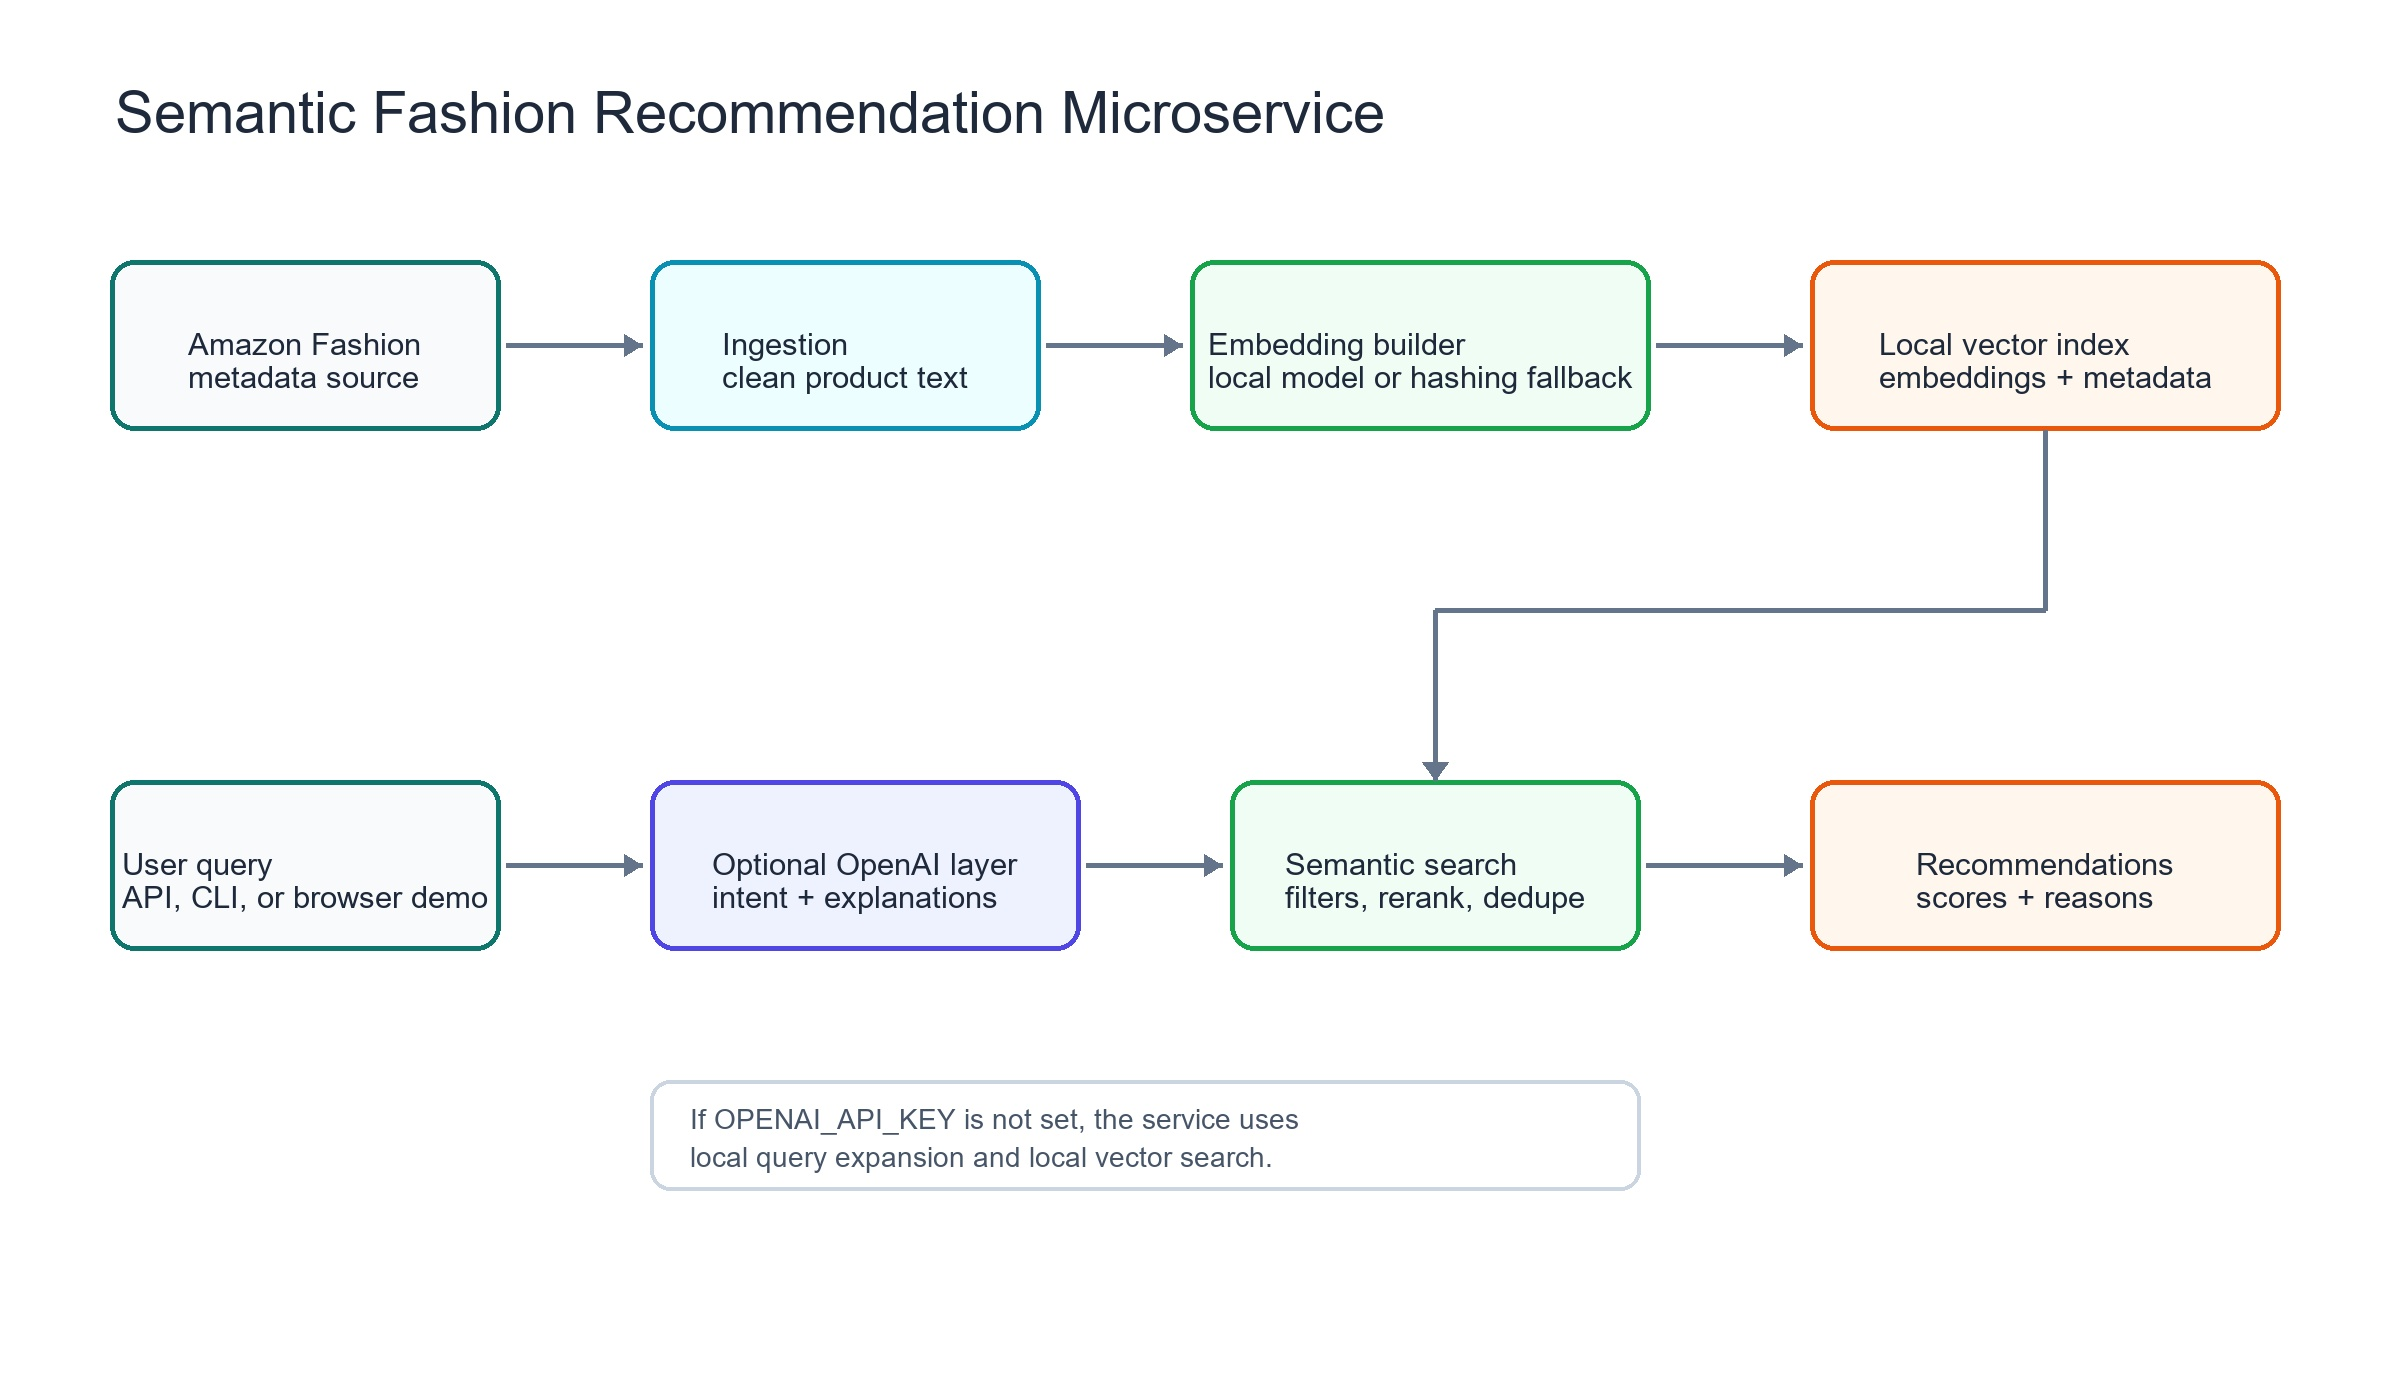
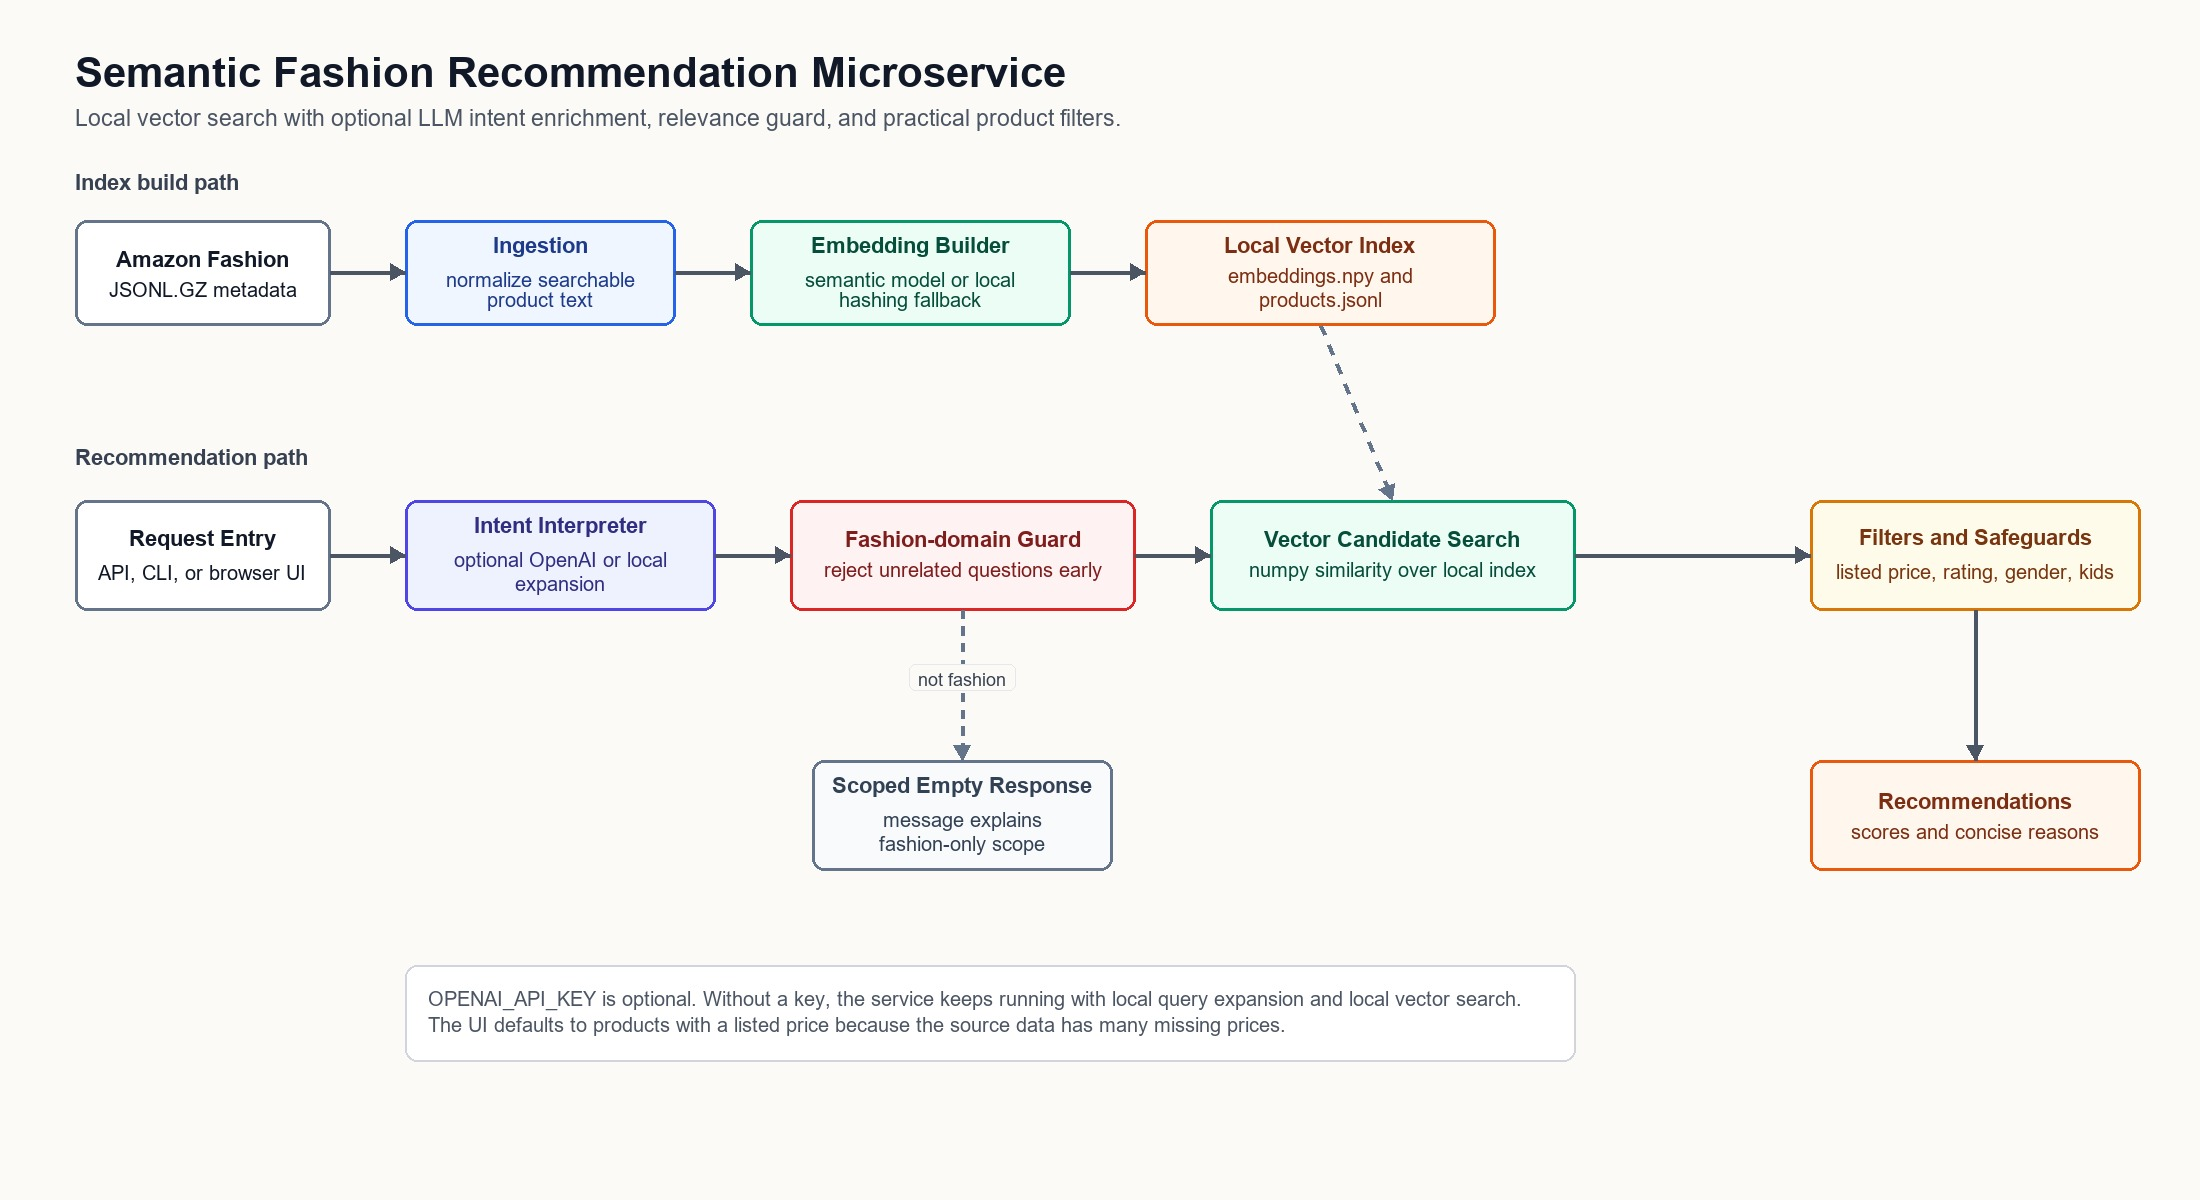
Improve search relevance

diff --git a/app/static/index.html b/app/static/index.html
@@ -587,7 +587,7 @@
       backendLabel.textContent = data.llm_used ? data.llm_provider : data.embedding_backend;
 
       if (count === 0) {
-        results.innerHTML = `<div class="empty-state">No matching products found.</div>`;
+        results.innerHTML = `<div class="empty-state">${escapeHtml(data.message || "No matching products found.")}</div>`;
         return;
       }
 

diff --git a/app/text_utils.py b/app/text_utils.py
@@ -126,6 +126,122 @@ FASHION_EXPANSIONS: dict[str, tuple[str, ...]] = {
     ),
 }
 
+FASHION_REQUEST_TERMS = {
+    "accessory",
+    "activewear",
+    "athletic",
+    "beach",
+    "beanie",
+    "belt",
+    "bikini",
+    "blazer",
+    "boots",
+    "bra",
+    "business",
+    "cap",
+    "cardigan",
+    "casual",
+    "clothes",
+    "clothing",
+    "coat",
+    "cotton",
+    "dress",
+    "fleece",
+    "flip",
+    "formal",
+    "gloves",
+    "gown",
+    "gym",
+    "hat",
+    "hoodie",
+    "interview",
+    "jacket",
+    "jeans",
+    "jogger",
+    "leggings",
+    "linen",
+    "men",
+    "mens",
+    "men's",
+    "office",
+    "outfit",
+    "pants",
+    "party",
+    "rain",
+    "running",
+    "sandal",
+    "sandals",
+    "scarf",
+    "shirt",
+    "shoes",
+    "shorts",
+    "ski",
+    "sneakers",
+    "socks",
+    "sports",
+    "summer",
+    "sweater",
+    "sweatpants",
+    "sweatshirt",
+    "swimwear",
+    "tank",
+    "tee",
+    "thermal",
+    "top",
+    "travel",
+    "trousers",
+    "wear",
+    "wedding",
+    "winter",
+    "women",
+    "womens",
+    "women's",
+    "workout",
+    "yoga",
+}
+
+FASHION_PRODUCT_TERMS = FASHION_REQUEST_TERMS - {
+    "beach",
+    "business",
+    "casual",
+    "interview",
+    "men",
+    "mens",
+    "men's",
+    "office",
+    "party",
+    "rain",
+    "running",
+    "ski",
+    "sports",
+    "summer",
+    "travel",
+    "wedding",
+    "winter",
+    "women",
+    "womens",
+    "women's",
+    "workout",
+    "yoga",
+}
+
+FASHION_CONTEXT_TERMS = FASHION_REQUEST_TERMS - FASHION_PRODUCT_TERMS
+
+SHOPPING_INTENT_TERMS = {
+    "buy",
+    "find",
+    "for",
+    "looking",
+    "need",
+    "recommend",
+    "search",
+    "shop",
+    "show",
+    "suggest",
+    "want",
+    "wear",
+}
+
 
 def tokenize(text: str) -> list[str]:
     return TOKEN_RE.findall(text.lower())
@@ -170,6 +286,28 @@ def infer_avoid_terms(query: str) -> list[str]:
     if {"running", "gym", "workout"} & tokens or "running" in lower or "gym" in lower:
         avoid.extend(["formal", "wedding", "gown", "dress shirt"])
     return list(dict.fromkeys(avoid))
+
+
+def is_fashion_request(query: str) -> bool:
+    tokens = set(tokenize(query))
+    if not tokens:
+        return False
+    if tokens & FASHION_PRODUCT_TERMS:
+        return True
+    has_shopping_intent = bool(tokens & SHOPPING_INTENT_TERMS)
+    has_fashion_context = bool(tokens & FASHION_CONTEXT_TERMS)
+    has_descriptive_context = any(
+        term in query.lower()
+        for term in (
+            "what should i wear",
+            "what to wear",
+            "dress code",
+            "outdoor",
+            "warm weather",
+            "cold weather",
+        )
+    )
+    return has_shopping_intent and (has_fashion_context or has_descriptive_context)
 
 
 def shared_query_terms(query: str, product_text: str, max_terms: int = 5) -> list[str]:

diff --git a/tests/test_search.py b/tests/test_search.py
@@ -197,3 +197,57 @@ def test_adult_query_excludes_kids_products(tmp_path) -> None:
     )
 
     assert [item["parent_asin"] for item in result["recommendations"]] == ["MEN1"]
+
+
+def test_non_fashion_query_returns_no_recommendations(tmp_path) -> None:
+    products = [
+        ProductRecord(
+            parent_asin="GIFT1",
+            title="Brother birthday gift tumbler",
+            store="Gift Shop",
+            price=24.99,
+            average_rating=4.6,
+            rating_number=88,
+            main_category="AMAZON FASHION",
+            search_text="Brother birthday gifts cup tumbler best brother gift",
+        )
+    ]
+    build_index(products, HashingEmbedder(), tmp_path, source_path=tmp_path / "sample.jsonl.gz")
+    index = ProductIndex.load(tmp_path)
+
+    result = index.recommend(
+        "what is Indias national anthem",
+        top_k=5,
+        filters=ProductFilters(require_price=True),
+        interpreter=LocalQueryInterpreter(),
+    )
+
+    assert result["recommendations"] == []
+    assert result["message"] is not None
+
+
+def test_audience_word_alone_is_not_fashion_request(tmp_path) -> None:
+    products = [
+        ProductRecord(
+            parent_asin="WOMEN1",
+            title="Women's padded sports bra",
+            store="Active Shop",
+            price=23.99,
+            average_rating=4.3,
+            rating_number=18,
+            main_category="AMAZON FASHION",
+            search_text="women sports bra workout activewear",
+        )
+    ]
+    build_index(products, HashingEmbedder(), tmp_path, source_path=tmp_path / "sample.jsonl.gz")
+    index = ProductIndex.load(tmp_path)
+
+    result = index.recommend(
+        "what is international women day",
+        top_k=5,
+        filters=ProductFilters(require_price=True),
+        interpreter=LocalQueryInterpreter(),
+    )
+
+    assert result["recommendations"] == []
+    assert result["message"] is not None

diff --git a/app/search.py b/app/search.py
@@ -12,7 +12,7 @@ from app.embedding import Embedder, create_embedder
 from app.ingest import ProductRecord
 from app.llm import LocalQueryInterpreter
 from app.models import ProductFilters
-from app.text_utils import shared_query_terms, tokenize
+from app.text_utils import is_fashion_request, shared_query_terms, tokenize
 
 
 class ProductIndex:
@@ -57,6 +57,20 @@ class ProductIndex:
     ) -> dict[str, Any]:
         started = time.perf_counter()
         intent = interpreter.interpret(query)
+        if not is_fashion_request(query):
+            return {
+                "query": query,
+                "interpreted_query": intent.search_query,
+                "llm_used": intent.llm_used,
+                "llm_provider": intent.provider,
+                "embedding_backend": self.embedder.backend,
+                "recommendations": [],
+                "latency_ms": int((time.perf_counter() - started) * 1000),
+                "message": (
+                    "This service is scoped to fashion product recommendations. "
+                    "Try a clothing item, accessory, season, occasion, or audience request."
+                ),
+            }
         requested_gender = _requested_gender(query)
         query_vector = self.embedder.encode([intent.search_query], is_query=True)[0]
         similarities = self.embeddings @ query_vector
@@ -122,6 +136,7 @@ class ProductIndex:
             "embedding_backend": self.embedder.backend,
             "recommendations": selected,
             "latency_ms": elapsed,
+            "message": None,
         }
 
 

diff --git a/app/models.py b/app/models.py
@@ -34,3 +34,4 @@ class RecommendResponse(BaseModel):
     embedding_backend: str
     recommendations: list[Recommendation]
     latency_ms: int
+    message: str | None = None

diff --git a/README.md b/README.md
@@ -17,6 +17,8 @@ It returns product recommendations from the included local vector index with sco
 - Dataset ingestion and vector index builder.
 - Optional OpenAI query interpretation when `OPENAI_API_KEY` is configured.
 - Local fallback path that works without any API key.
+- Fashion-domain guard so unrelated questions return a clear scoped message instead of arbitrary nearest neighbors.
+- Price, rating, listed-price, and audience-aware filtering for cleaner recommendations.
 - Architecture diagram in draw.io and JPEG formats.
 - Prebuilt 16,000-product index under `data/index` so the app can run immediately after dependency installation.
 - Tests for ingestion, search, and API behavior.
@@ -83,7 +85,7 @@ Open the local UI:
 http://127.0.0.1:8000
 ```
 
-The UI is served by the same FastAPI app. It lets a reviewer enter a natural-language shopping request, choose result count, optionally add price/rating filters, and see recommendations from the local index.
+The UI is served by the same FastAPI app. It lets a reviewer enter a natural-language shopping request, choose result count, optionally add price/rating filters, require products with a listed price, and see recommendations from the local index. Non-fashion queries return an empty state with a scope message instead of unrelated products.
 
 ## API Usage
 
@@ -92,7 +94,7 @@ Invoke-RestMethod `
   -Uri http://127.0.0.1:8000/recommend `
   -Method Post `
   -ContentType "application/json" `
-  -Body '{"query":"I need an outfit to go to the beach this summer","top_k":5,"filters":{"max_price":50,"min_rating":4.0}}'
+  -Body '{"query":"I need an outfit to go to the beach this summer","top_k":5,"filters":{"max_price":50,"min_rating":4.0,"require_price":true}}'
 ```
 
 Response shape:
@@ -116,11 +118,27 @@ Response shape:
       "why": "Matches the shopping intent through: beach, summer, lightweight, breathable."
     }
   ],
-  "latency_ms": 35
+  "latency_ms": 35,
+  "message": null
 }
 ```
 
 Actual product results depend on the index size and embedding backend used.
+
+For an out-of-domain request, the API returns no products and explains the scope:
+
+```json
+{
+  "query": "what is Indias national anthem",
+  "interpreted_query": "what is Indias national anthem",
+  "llm_used": false,
+  "llm_provider": "local",
+  "embedding_backend": "hashing",
+  "recommendations": [],
+  "latency_ms": 0,
+  "message": "This service is scoped to fashion product recommendations. Try a clothing item, accessory, season, occasion, or audience request."
+}
+```
 
 ## CLI Usage
 
@@ -134,7 +152,8 @@ The high-level flow is:
 
 ```text
 Dataset -> ingestion -> embeddings -> vector index
-User query -> optional OpenAI interpretation -> vector search -> rerank/filter -> recommendations
+User query -> optional OpenAI/local interpretation -> fashion-domain guard -> vector search -> price/audience filters -> rerank/dedupe -> recommendations
+Out-of-domain query -> scoped empty response
 ```
 
 Diagram files:
@@ -147,12 +166,14 @@ Diagram files:
 - The app is intentionally small: FastAPI, local files, and numpy vector search are enough for a reviewable prototype.
 - The OpenAI layer is optional because reviewers should be able to run the submission without a secret key.
 - The local fallback includes query expansion for common fashion intents like beach, summer, running, office, wedding, winter, and travel.
+- The recommender rejects non-fashion requests before vector search because nearest-neighbor search will otherwise always return something, even for unrelated questions.
+- Audience filtering keeps mens, womens, unisex, and kids-oriented matches aligned with the request instead of relying on similarity alone.
 - `categories` are not used as a primary signal because the inspected Amazon Fashion file has empty category arrays for the sampled rows.
 - The vector index is file-based for simplicity. A production version would move embeddings into a vector database and add background indexing.
 
 ## Data Notes
 
-The Amazon Fashion metadata contains 826,108 rows. Many rows have title, store, rating, image, and product-detail fields; fewer rows have price and long descriptions. The ingestion code therefore builds product text from title, features, description, store, and selected detail fields.
+The Amazon Fashion metadata contains 826,108 rows. Many rows have title, store, rating, image, and product-detail fields; fewer rows have price and long descriptions. The ingestion code therefore builds product text from title, features, description, store, and selected detail fields. Missing prices are expected in the source data, so the UI includes a "Listed price only" option and the API exposes `filters.require_price`.
 
 ## Tests
 